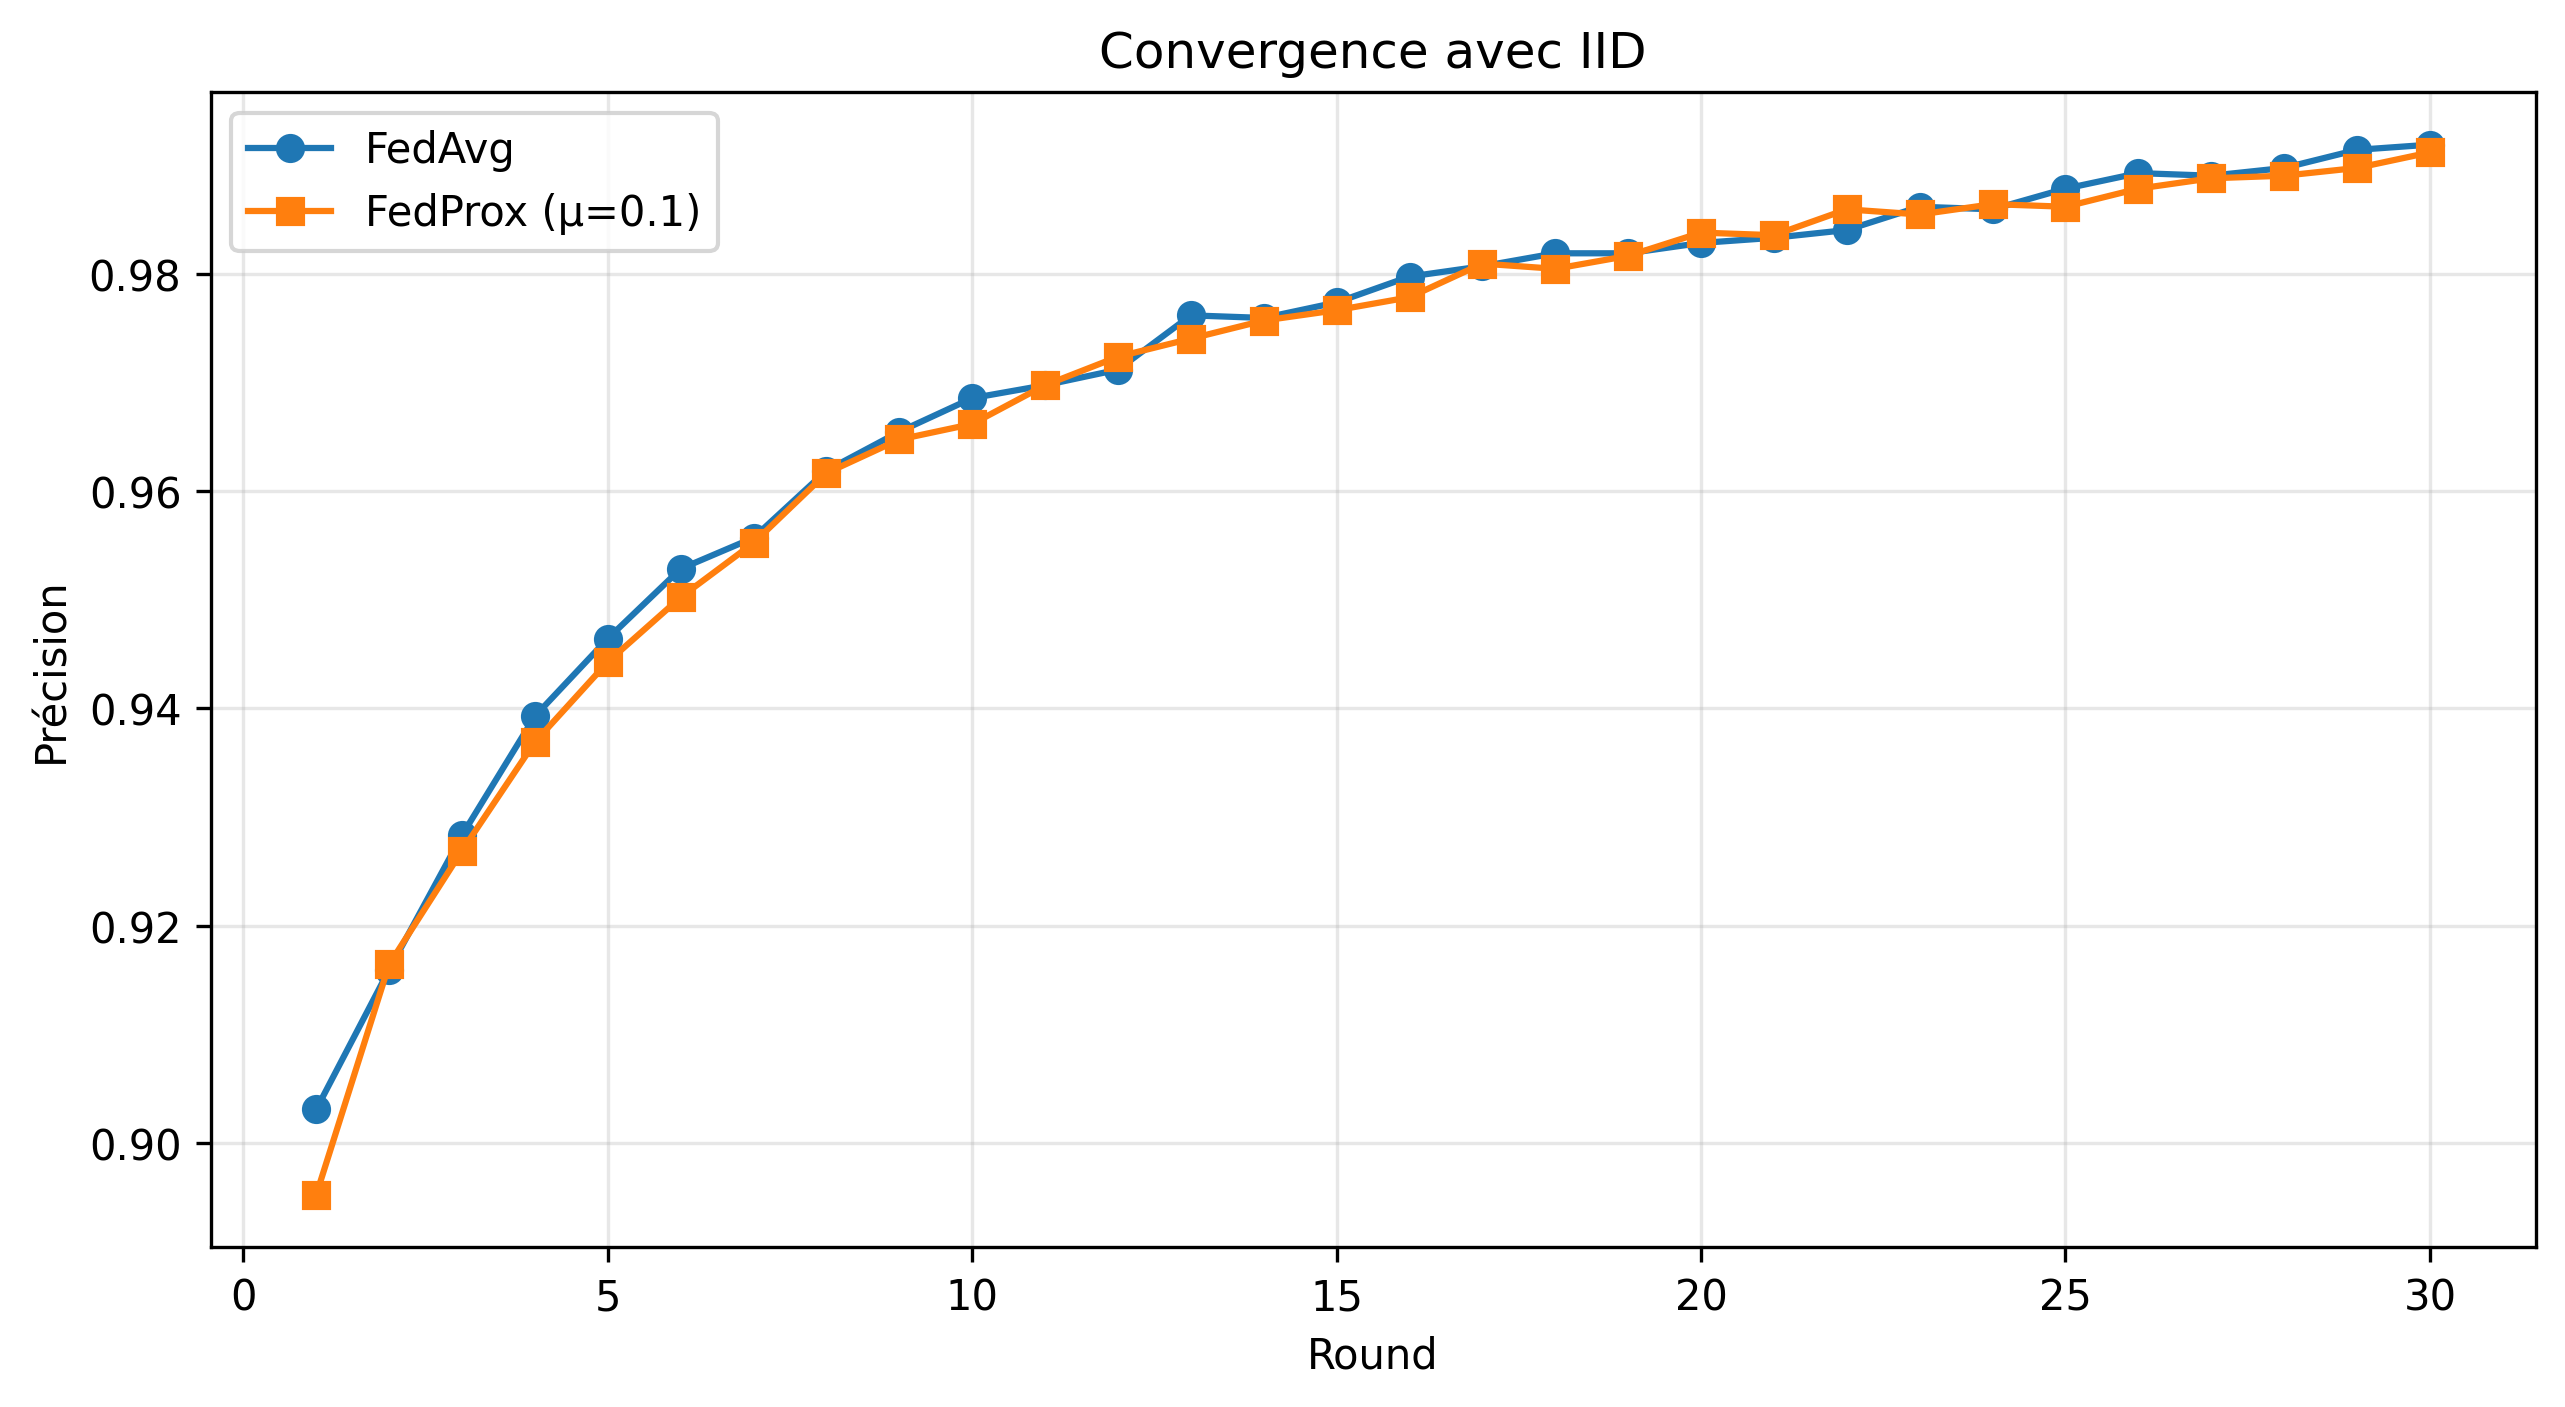
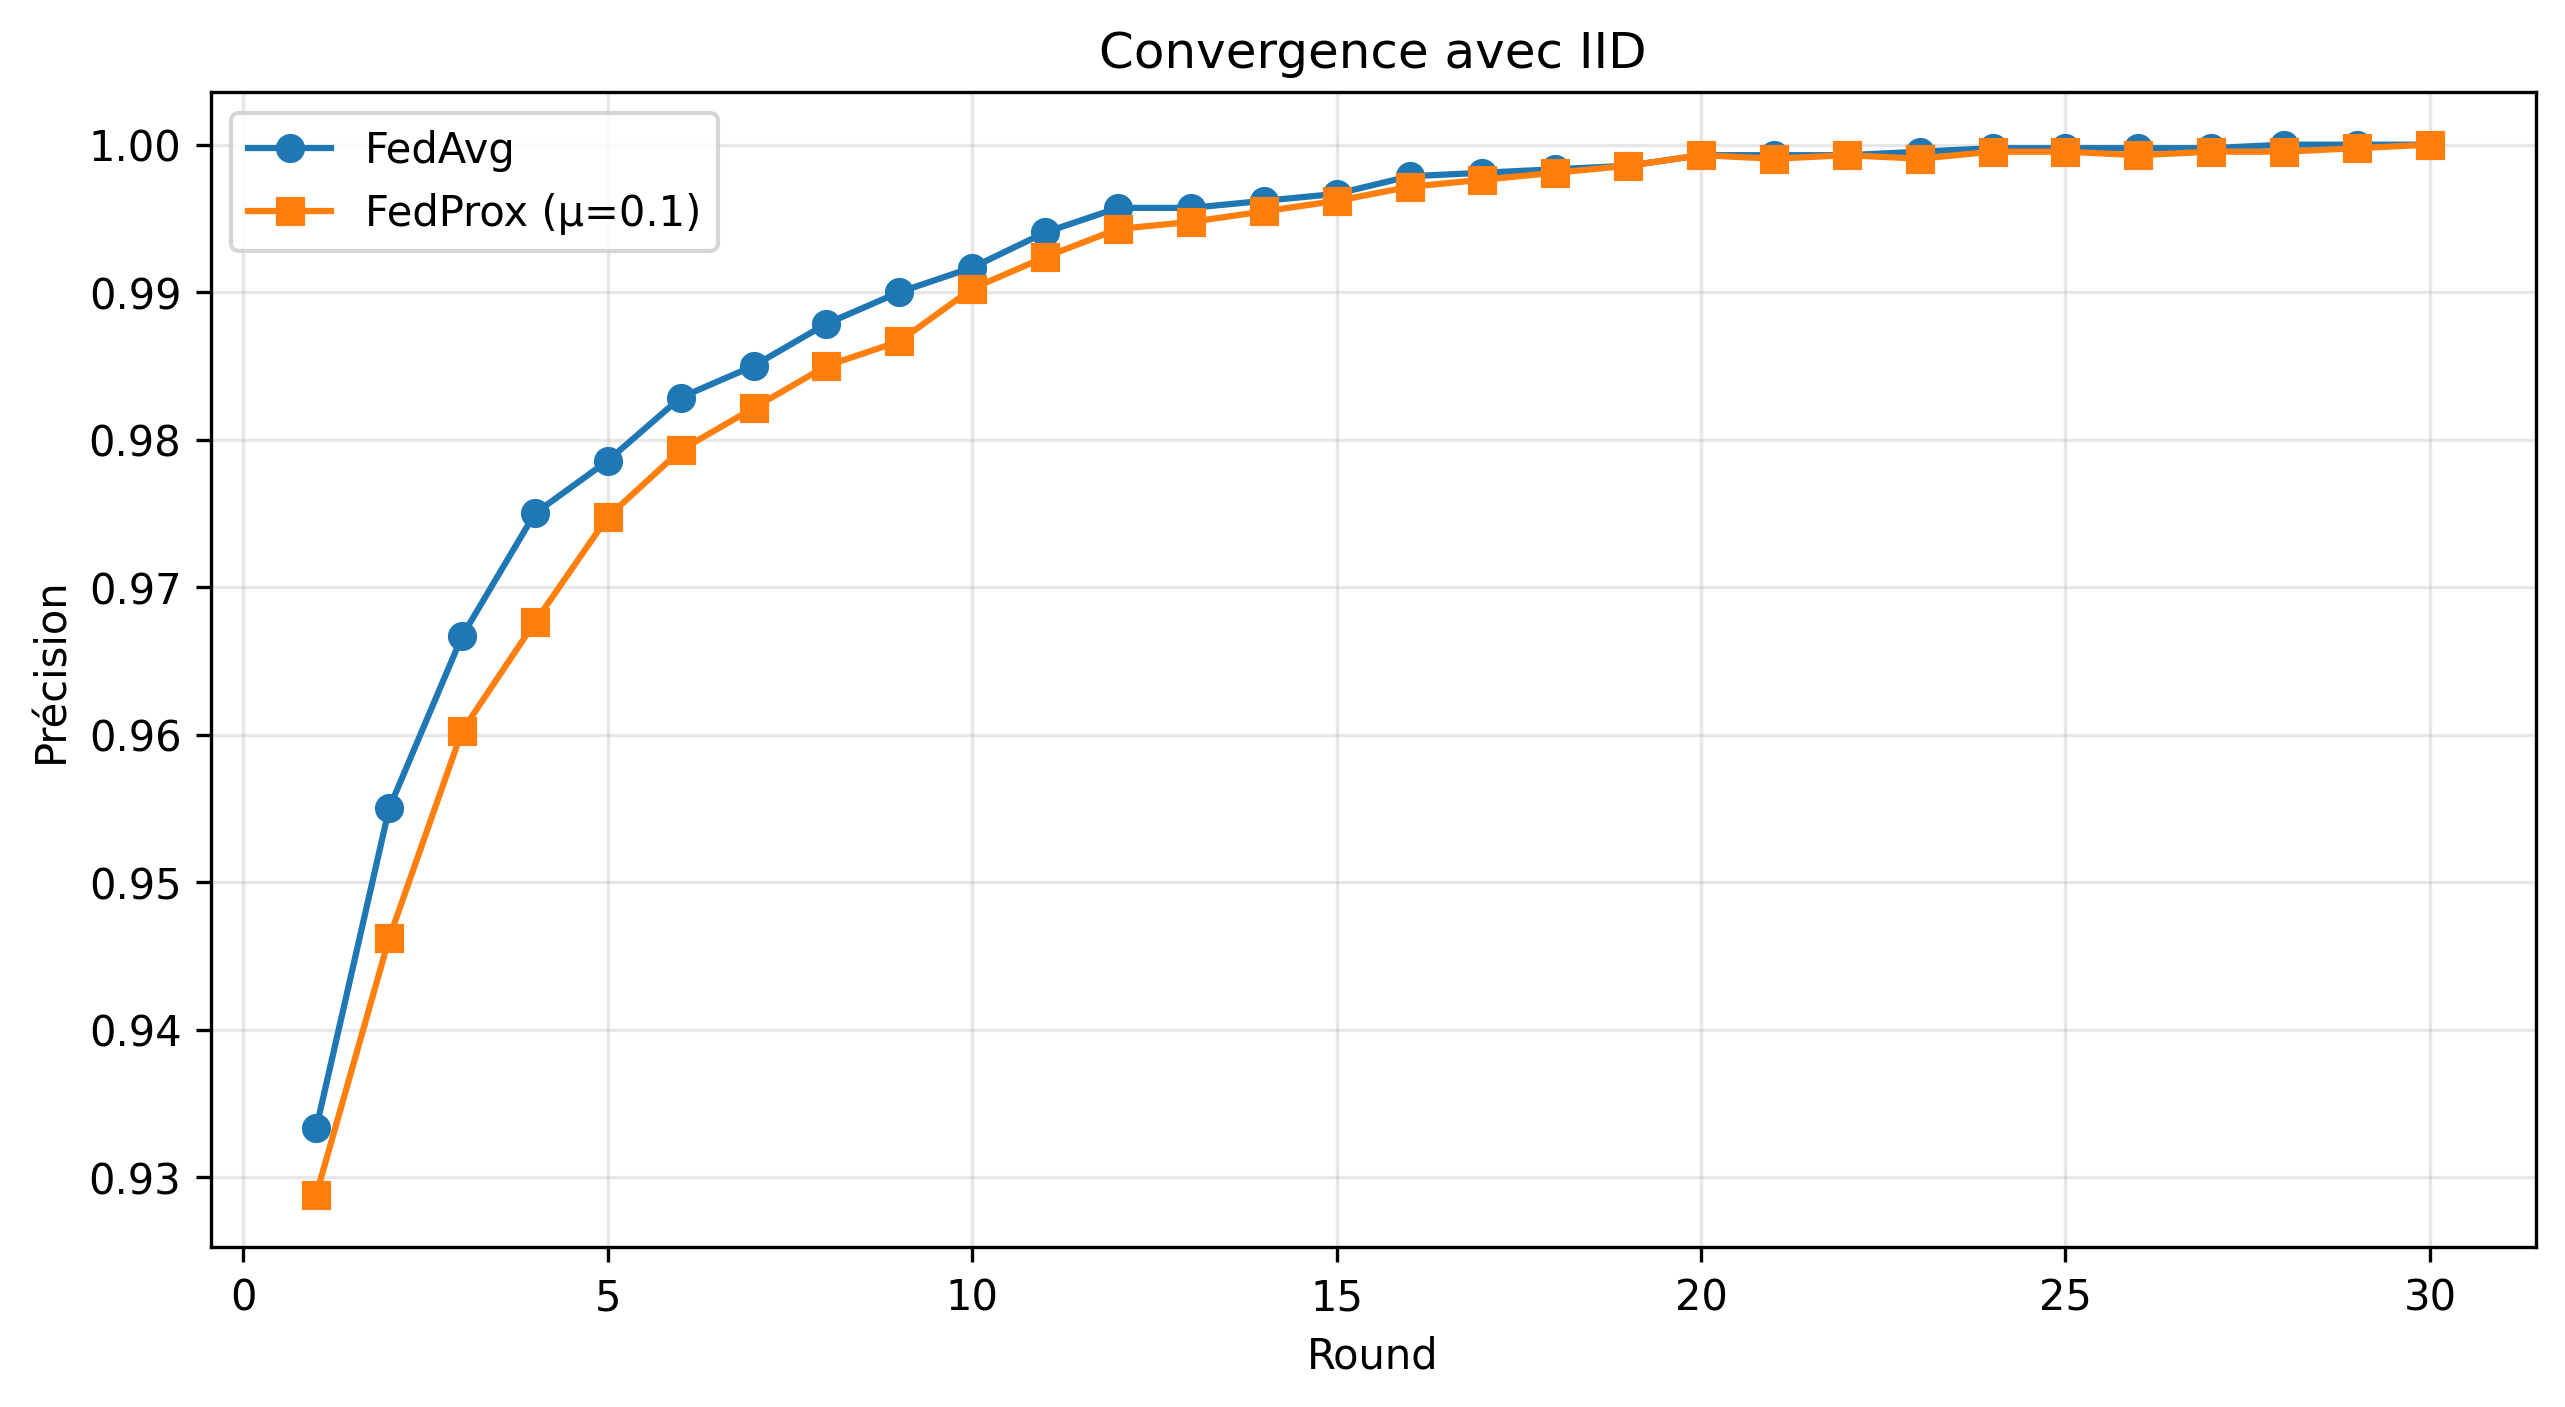
Ajout de nouveaux graphiques et d'une analyse comparative de FedAvg et FedProx sur MNIST dans le fichier readme_comparaison.md

diff --git a/readme_comparaison.md b/readme_comparaison.md
@@ -1,0 +1,31 @@
+Analyse comparative de FedAvg et FedProx sur MNIST
+Description du graphique
+Ce graphique présente une comparaison de la précision entre les algorithmes d'apprentissage fédéré FedAvg et FedProx (avec différentes valeurs du paramètre μ) sur le jeu de données MNIST.
+Éléments clés du graphique
+
+Axe X : Nombre de rounds d'apprentissage fédéré (de 0 à 30)
+Axe Y : Précision du modèle (de 0 à 1)
+Courbes :
+
+Bleu : FedAvg (algorithme standard d'agrégation fédérée)
+Orange : FedProx avec μ=0.01 (régularisation proximale faible)
+Vert : FedProx avec μ=0.1 (régularisation proximale plus forte)
+Rouge pointillé : Modèle centralisé (référence)
+
+
+
+Résultats principaux
+
+Performance finale : FedProx avec μ=0.1 (vert) atteint la meilleure précision finale après 30 rounds (~0.7).
+Convergence initiale : FedAvg (bleu) démarre avec une convergence plus rapide dans les premiers rounds.
+Stabilité : FedProx avec μ=0.1 semble plus stable et continue de progresser régulièrement.
+Écart avec le modèle centralisé : Un écart significatif persiste entre les approches fédérées et le modèle centralisé (~0.97), ce qui est normal en raison de la nature distribuée de l'apprentissage.
+
+Implications
+
+Avantage de FedProx : Ce graphique démontre l'efficacité de la régularisation proximale avec μ=0.1 pour améliorer la convergence à long terme sur des données distribuées.
+Compromis : FedProx avec μ=0.01 se montre moins performant que les deux autres approches, suggérant que ce niveau de régularisation est insuffisant pour les conditions expérimentales.
+Distribution des données : Ce test a été réalisé avec une distribution non-IID des données (2 classes par client), représentant un scénario réaliste d'apprentissage fédéré.
+
+Conclusion
+FedProx avec une valeur appropriée de μ (0.1 dans cette expérience) offre un avantage significatif par rapport à FedAvg dans un contexte d'apprentissage fédéré avec données non-IID, particulièrement pour les phases avancées de l'entraînement. Ce résultat confirme l'hypothèse que l'ajout d'un terme de régularisation proximale peut améliorer la convergence des modèles dans un contexte fédéré hétérogène.
